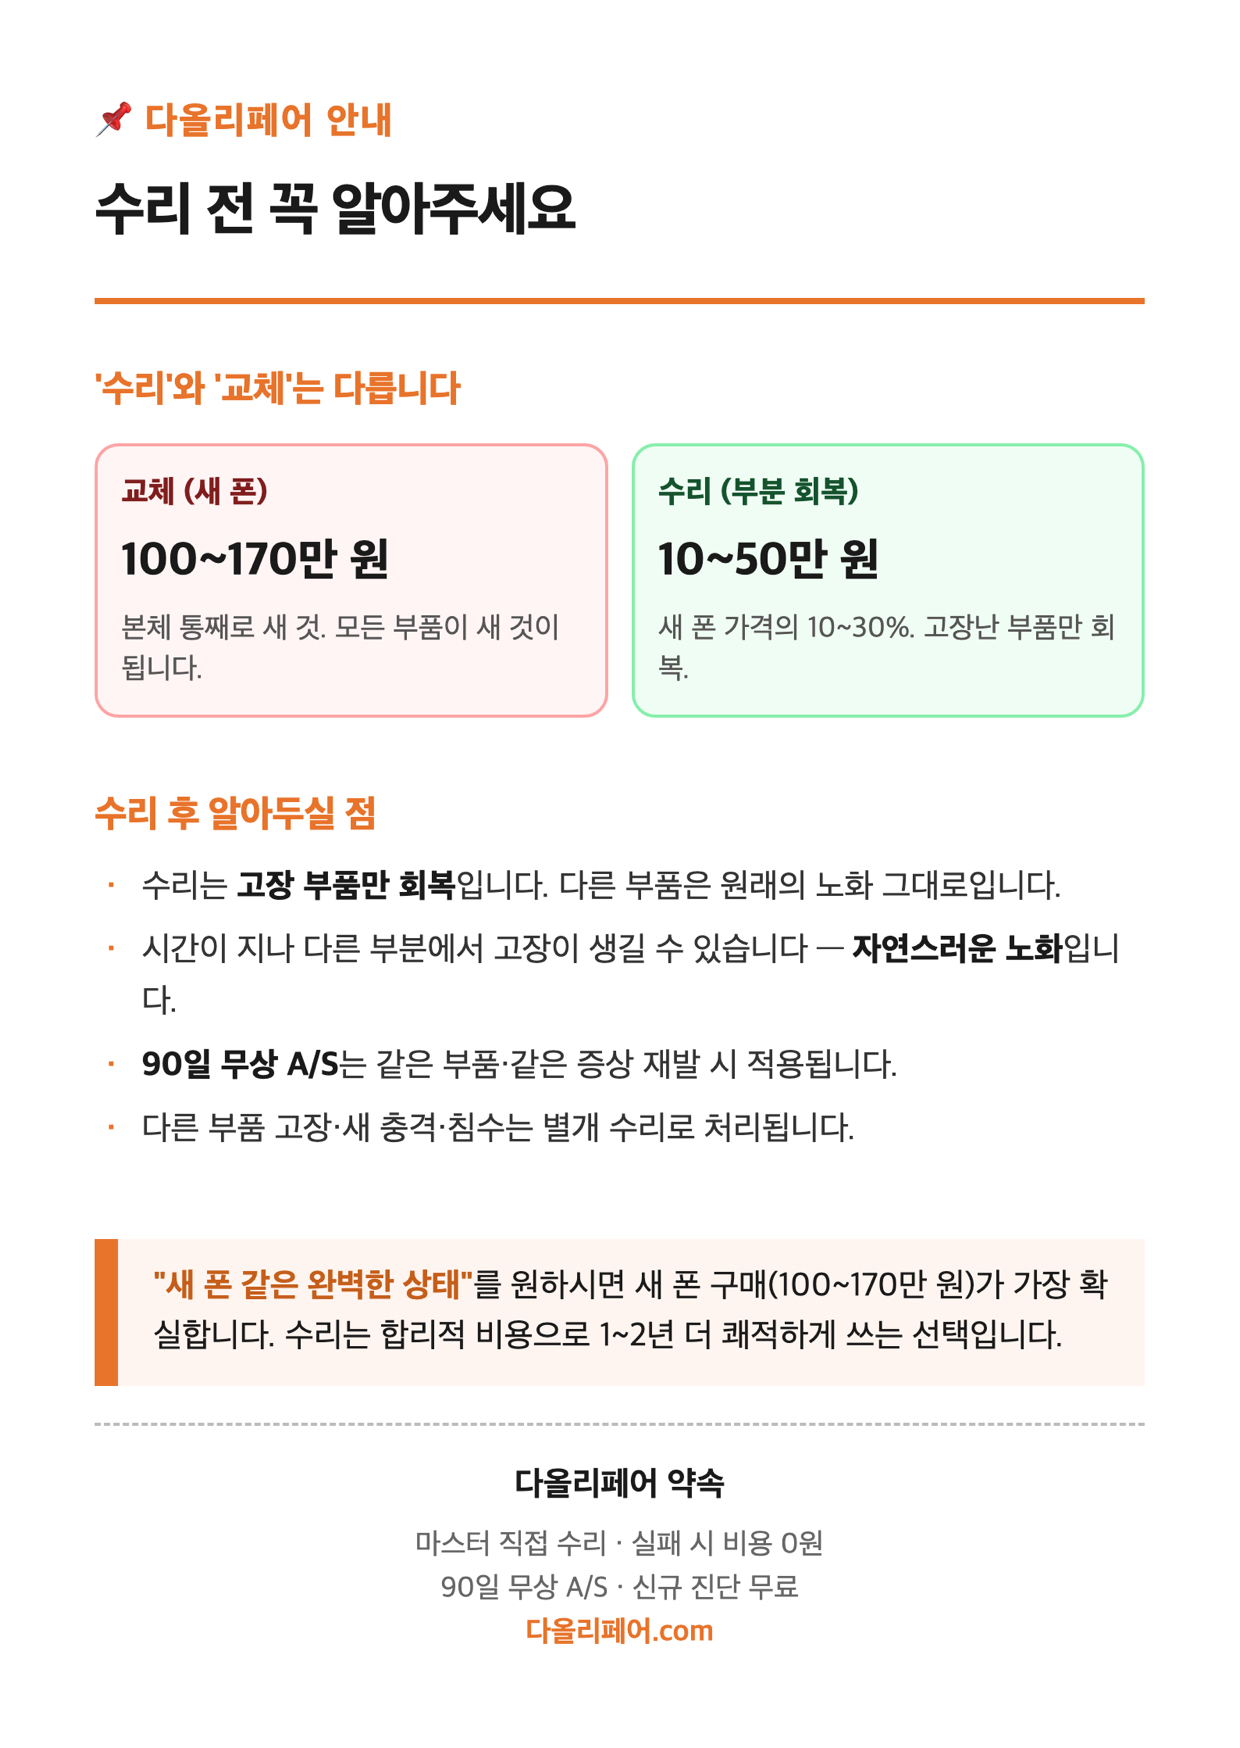
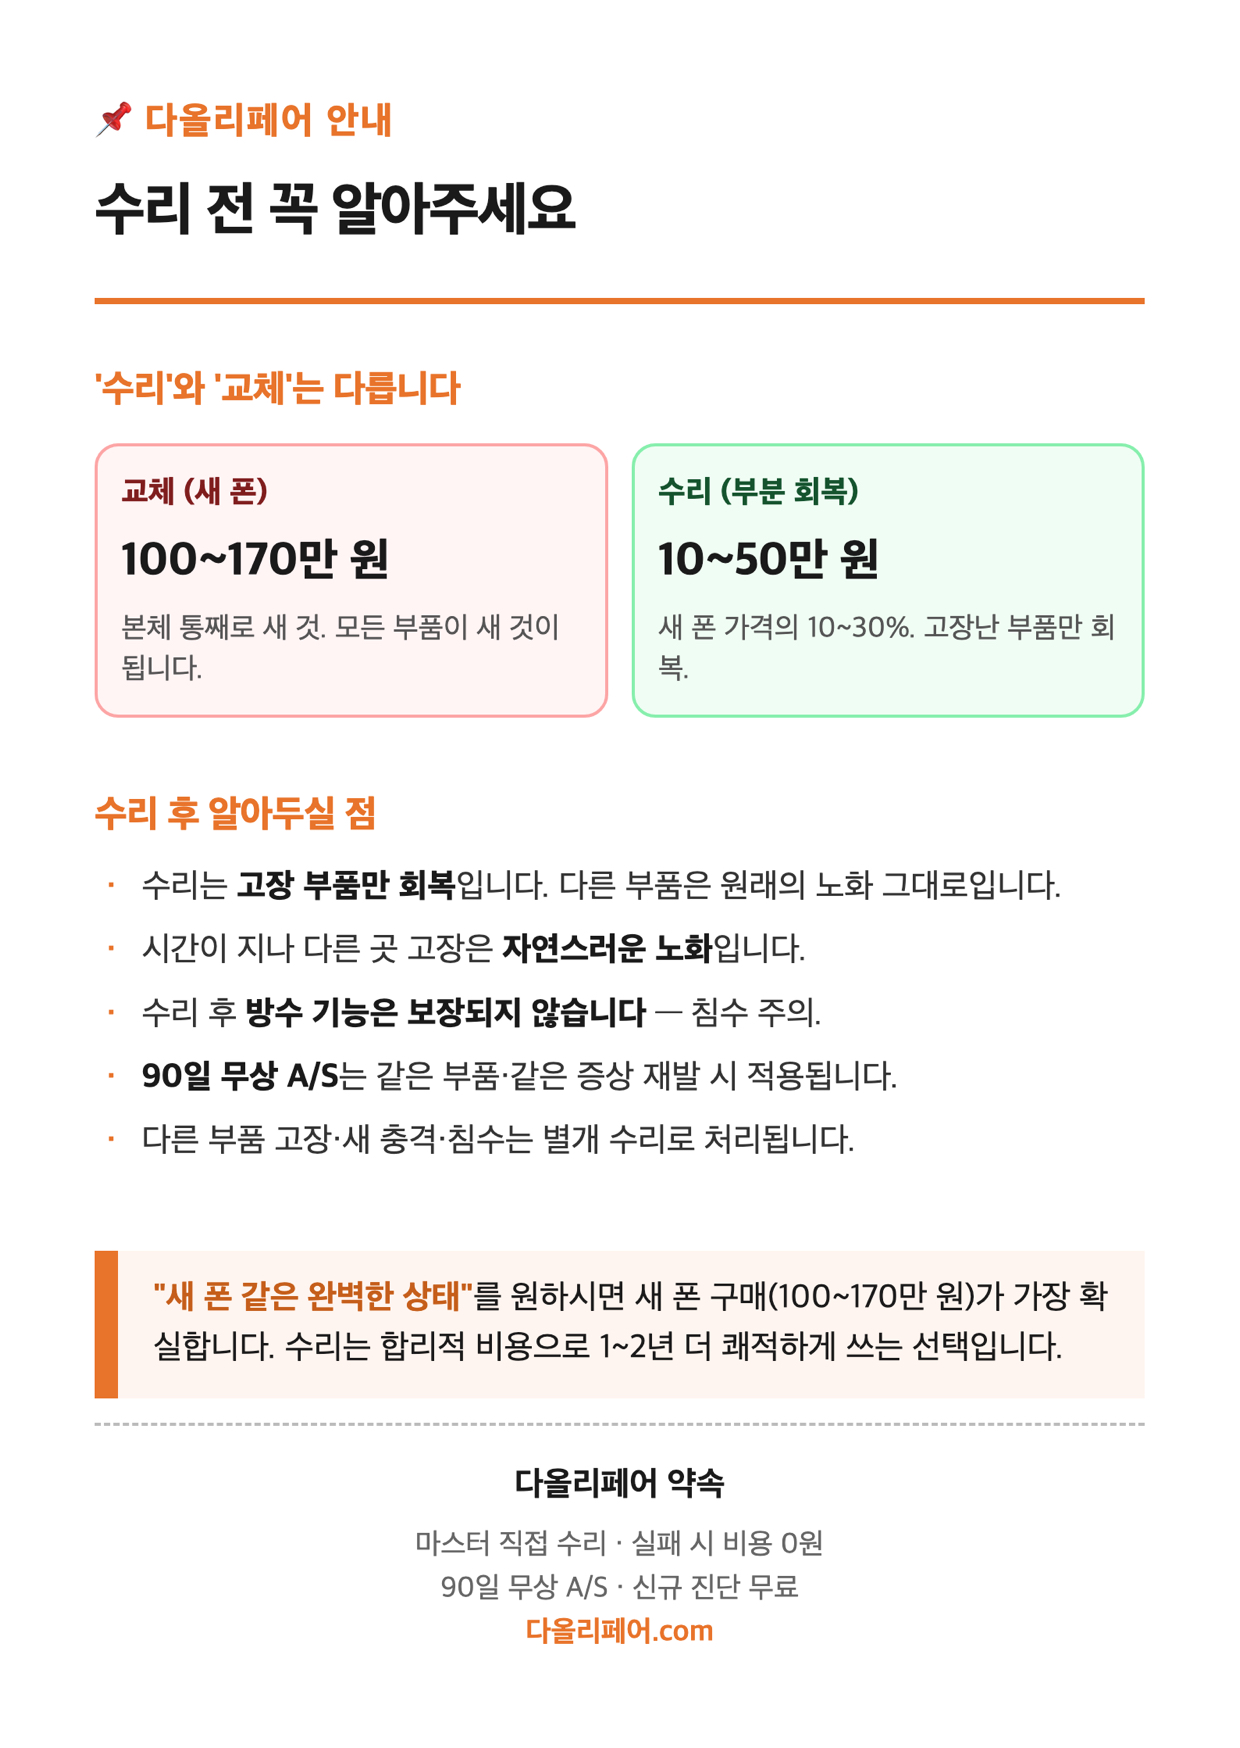
공지글 — 방수 보장 X 항목 추가 + '시간이 지나 다른 곳 고장' 한 줄 압축 + A6 JPG 재생성

diff --git a/articles/notice-repair-vs-replacement.html b/articles/notice-repair-vs-replacement.html
@@ -251,8 +251,9 @@
     <ul>
       <li><strong>수리는 부품 단위 회복</strong>입니다. 본체 전체를 새 것으로 바꾸는 게 아닙니다.</li>
       <li><strong>수리한 부품 외 다른 곳</strong>은 원래의 노화 상태 그대로 함께 동작합니다.</li>
-      <li><strong>시간이 지나면</strong> 수리한 부품과 무관한 다른 곳에서 새 고장이 생길 수 있습니다 — 이는 자연스러운 노화입니다.</li>
-      <li><strong>90일 보증</strong>은 같은 부품·같은 증상 재발 시 적용됩니다. 다른 부품 고장·새 충격은 별개 수리입니다.</li>
+      <li>시간이 지나 다른 곳 고장이 생기는 건 <strong>자연스러운 노화</strong>입니다.</li>
+      <li><strong>수리 후 방수 기능은 보장되지 않습니다</strong> — 사설 수리는 본체를 분해하기 때문에 출고 당시의 방수 등급(IP67·IP68)이 유지되지 않습니다. 이는 다올리페어뿐 아니라 모든 사설 수리의 공통 사항입니다. 수리 후에는 비·땀·세면대 등에 더 주의하셔야 합니다.</li>
+      <li><strong>90일 보증</strong>은 같은 부품·같은 증상 재발 시 적용됩니다. 다른 부품 고장·새 충격·침수는 별개 수리입니다.</li>
       <li><strong>"새 폰 같은 완벽한 상태"</strong>를 원하신다면 새 폰 구매(약 100~170만 원)가 가장 확실한 답입니다. 수리는 합리적 비용(10~30%)으로 1~2년 더 쾌적하게 쓰는 선택입니다.</li>
     </ul>
 

diff --git a/dist/articles/notice-repair-vs-replacement.html b/dist/articles/notice-repair-vs-replacement.html
@@ -251,8 +251,9 @@
     <ul>
       <li><strong>수리는 부품 단위 회복</strong>입니다. 본체 전체를 새 것으로 바꾸는 게 아닙니다.</li>
       <li><strong>수리한 부품 외 다른 곳</strong>은 원래의 노화 상태 그대로 함께 동작합니다.</li>
-      <li><strong>시간이 지나면</strong> 수리한 부품과 무관한 다른 곳에서 새 고장이 생길 수 있습니다 — 이는 자연스러운 노화입니다.</li>
-      <li><strong>90일 보증</strong>은 같은 부품·같은 증상 재발 시 적용됩니다. 다른 부품 고장·새 충격은 별개 수리입니다.</li>
+      <li>시간이 지나 다른 곳 고장이 생기는 건 <strong>자연스러운 노화</strong>입니다.</li>
+      <li><strong>수리 후 방수 기능은 보장되지 않습니다</strong> — 사설 수리는 본체를 분해하기 때문에 출고 당시의 방수 등급(IP67·IP68)이 유지되지 않습니다. 이는 다올리페어뿐 아니라 모든 사설 수리의 공통 사항입니다. 수리 후에는 비·땀·세면대 등에 더 주의하셔야 합니다.</li>
+      <li><strong>90일 보증</strong>은 같은 부품·같은 증상 재발 시 적용됩니다. 다른 부품 고장·새 충격·침수는 별개 수리입니다.</li>
       <li><strong>"새 폰 같은 완벽한 상태"</strong>를 원하신다면 새 폰 구매(약 100~170만 원)가 가장 확실한 답입니다. 수리는 합리적 비용(10~30%)으로 1~2년 더 쾌적하게 쓰는 선택입니다.</li>
     </ul>
 

diff --git a/articles/notice-repair-vs-replacement-print.html b/articles/notice-repair-vs-replacement-print.html
@@ -227,7 +227,8 @@
       <h3>수리 후 알아두실 점</h3>
       <ul class="a6-list">
         <li>수리는 <strong>고장 부품만 회복</strong>입니다. 다른 부품은 원래의 노화 그대로입니다.</li>
-        <li>시간이 지나 다른 부분에서 고장이 생길 수 있습니다 — <strong>자연스러운 노화</strong>입니다.</li>
+        <li>시간이 지나 다른 곳 고장은 <strong>자연스러운 노화</strong>입니다.</li>
+        <li>수리 후 <strong>방수 기능은 보장되지 않습니다</strong> — 침수 주의.</li>
         <li><strong>90일 무상 A/S</strong>는 같은 부품·같은 증상 재발 시 적용됩니다.</li>
         <li>다른 부품 고장·새 충격·침수는 별개 수리로 처리됩니다.</li>
       </ul>

diff --git a/dist/articles/notice-repair-vs-replacement-print.html b/dist/articles/notice-repair-vs-replacement-print.html
@@ -227,7 +227,8 @@
       <h3>수리 후 알아두실 점</h3>
       <ul class="a6-list">
         <li>수리는 <strong>고장 부품만 회복</strong>입니다. 다른 부품은 원래의 노화 그대로입니다.</li>
-        <li>시간이 지나 다른 부분에서 고장이 생길 수 있습니다 — <strong>자연스러운 노화</strong>입니다.</li>
+        <li>시간이 지나 다른 곳 고장은 <strong>자연스러운 노화</strong>입니다.</li>
+        <li>수리 후 <strong>방수 기능은 보장되지 않습니다</strong> — 침수 주의.</li>
         <li><strong>90일 무상 A/S</strong>는 같은 부품·같은 증상 재발 시 적용됩니다.</li>
         <li>다른 부품 고장·새 충격·침수는 별개 수리로 처리됩니다.</li>
       </ul>
